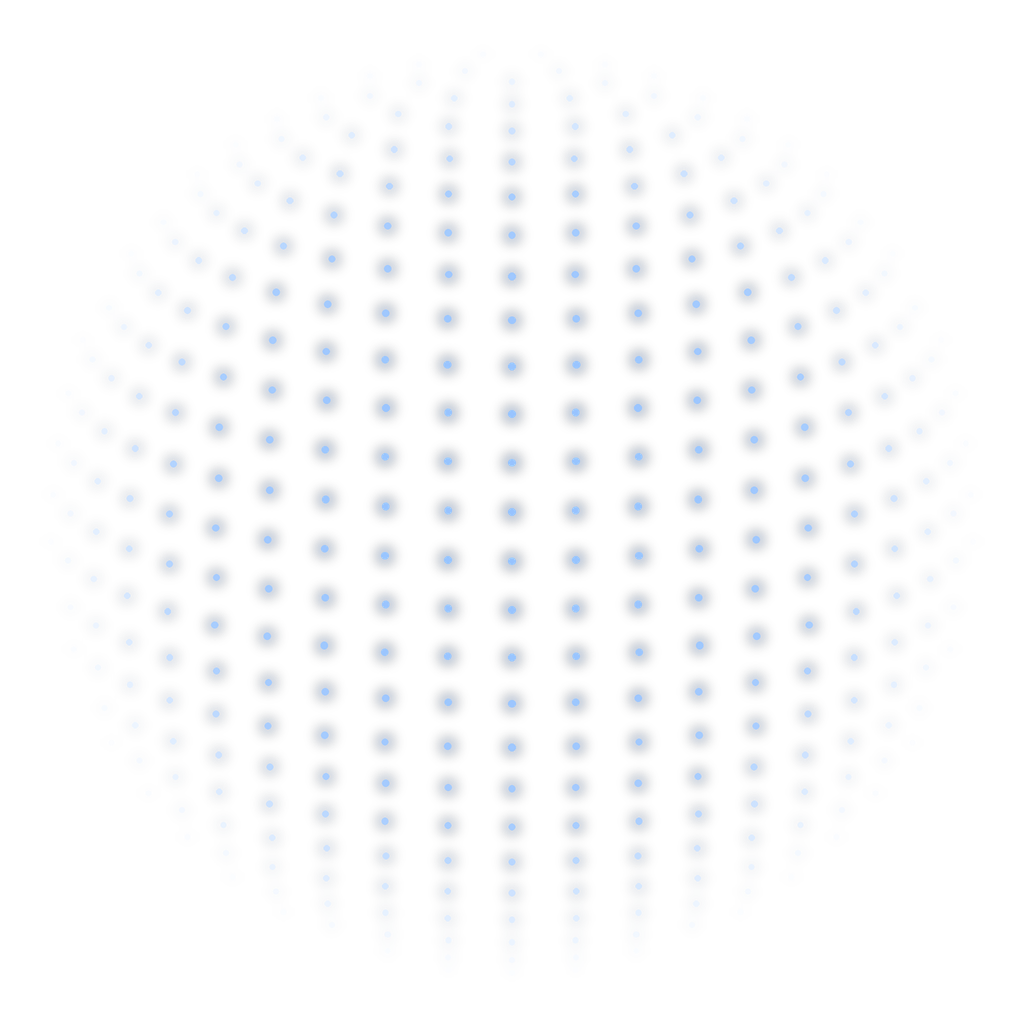
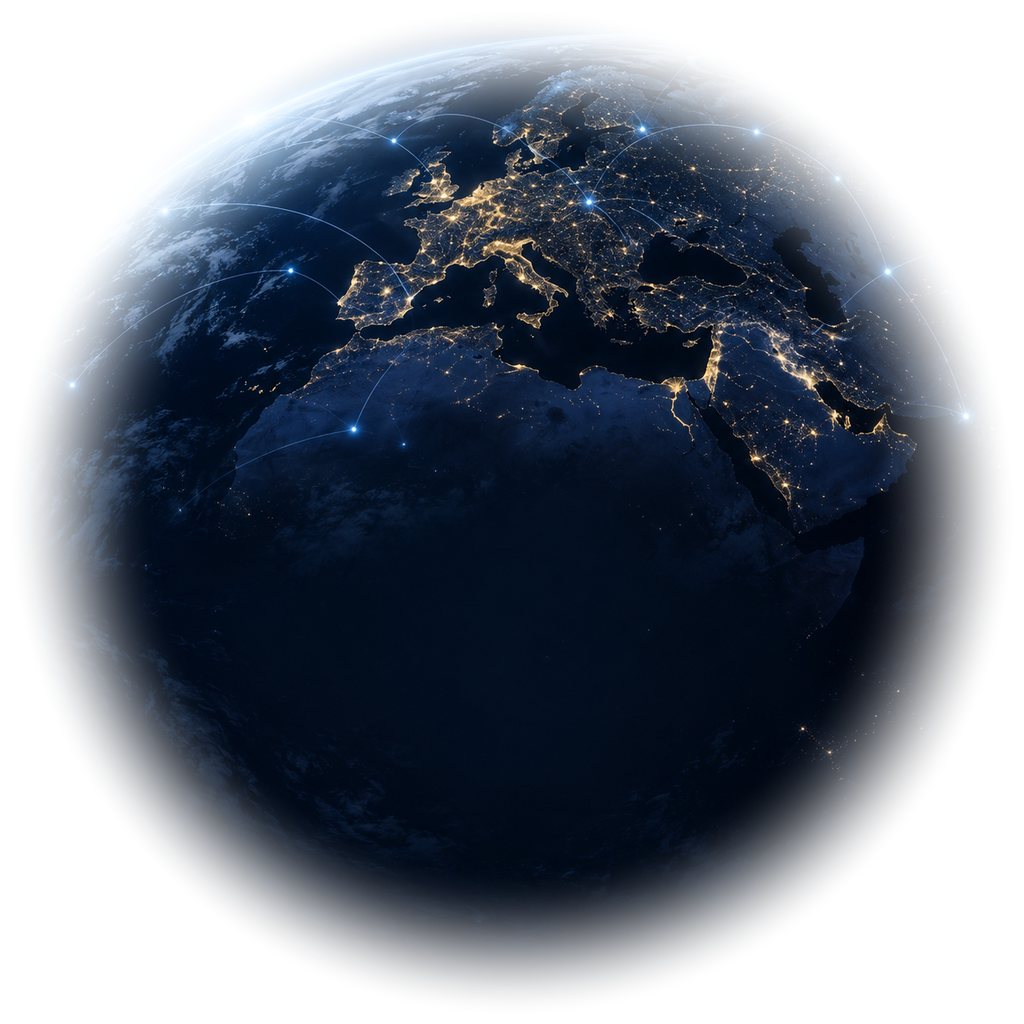
feat(desktop): фон-Земля в hero — тот же вид, что на телефоне (0.3.24)
Точечный глобус заменён на присланные владельцем снимки Земли (ночная Земля для
тёмной темы, светлый сетевой глобус для светлой), с тем же смягчением краёв, что
на Android. Область Земли увеличена, под кнопкой мягкий ореол в цвет состояния.

diff --git a/apps/desktop/src/styles/app.css b/apps/desktop/src/styles/app.css
@@ -521,25 +521,33 @@
 .hero {
   position: relative;
   width: 100%;
-  height: 226px;
+  height: 296px;
   display: grid;
   place-items: center;
-  margin: 4px 0 2px;
+  margin: 2px 0;
+  overflow: hidden;
 }
 .hero-globe {
   position: absolute;
   top: 50%;
   left: 50%;
-  width: 300px;
-  height: 300px;
+  width: 372px;
+  height: 372px;
   transform: translate(-50%, -50%);
   object-fit: contain;
   pointer-events: none;
   user-select: none;
-  opacity: 0.92;
 }
 [data-theme='dark'] .hero-globe-light { display: none; }
 [data-theme='light'] .hero-globe-dark { display: none; }
+.hero-glow {
+  position: absolute;
+  width: 232px;
+  height: 232px;
+  border-radius: 50%;
+  pointer-events: none;
+}
+[data-theme='light'] .hero-glow { opacity: 0.6; }
 .hero-btn {
   position: relative;
   width: 138px;

diff --git a/apps/desktop/src/components/HomeHero.tsx b/apps/desktop/src/components/HomeHero.tsx
@@ -49,6 +49,11 @@ export function HomeHero() {
     <div className="hero">
       <img className="hero-globe hero-globe-dark" src={globeDark} alt="" aria-hidden draggable={false} />
       <img className="hero-globe hero-globe-light" src={globeLight} alt="" aria-hidden draggable={false} />
+      <div
+        className="hero-glow"
+        style={{ background: `radial-gradient(circle, ${a}59 0%, transparent 66%)` }}
+        aria-hidden
+      />
       <button
         type="button"
         className={`hero-btn${connecting ? ' hero-btn-pulse' : ''}`}
